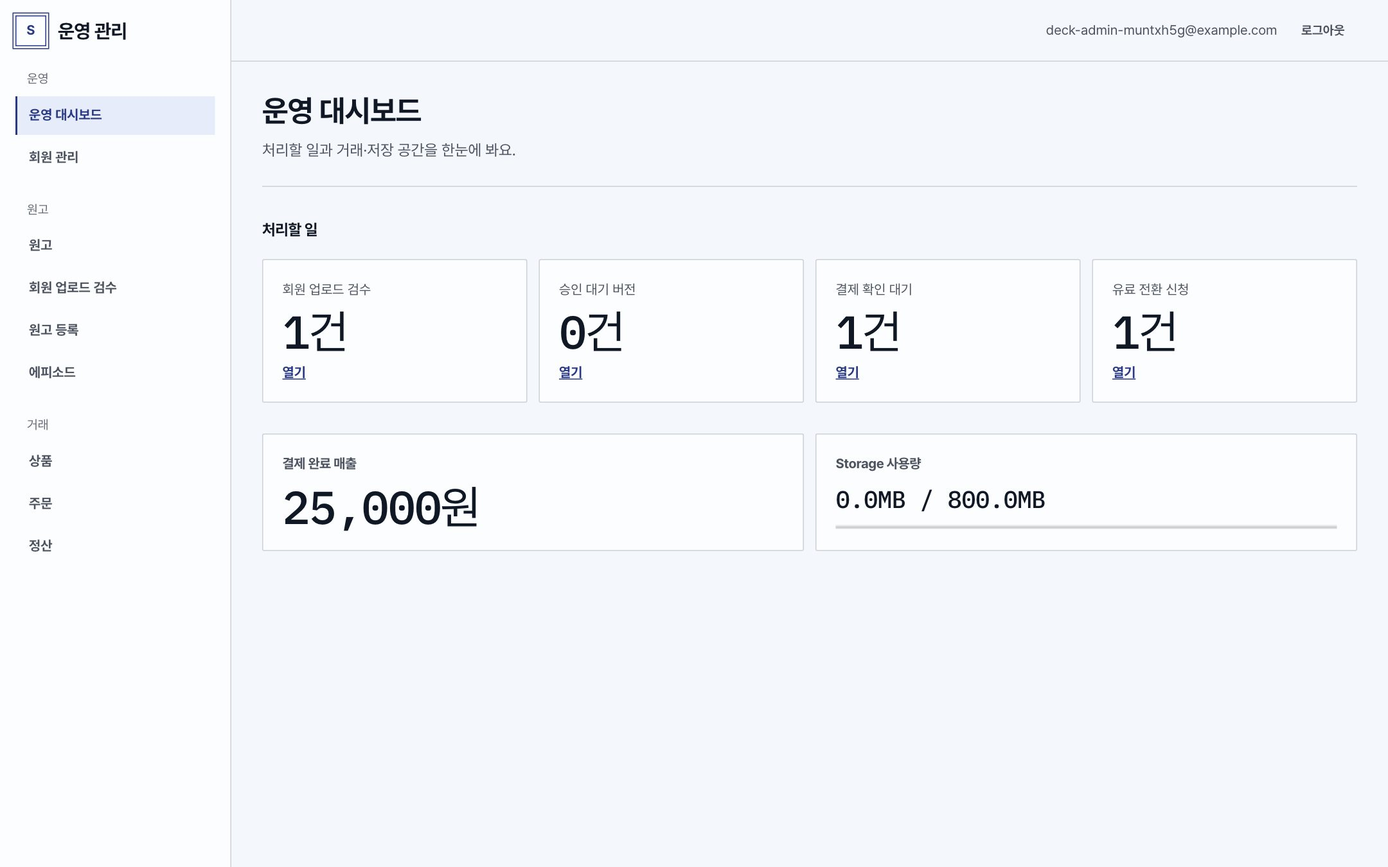
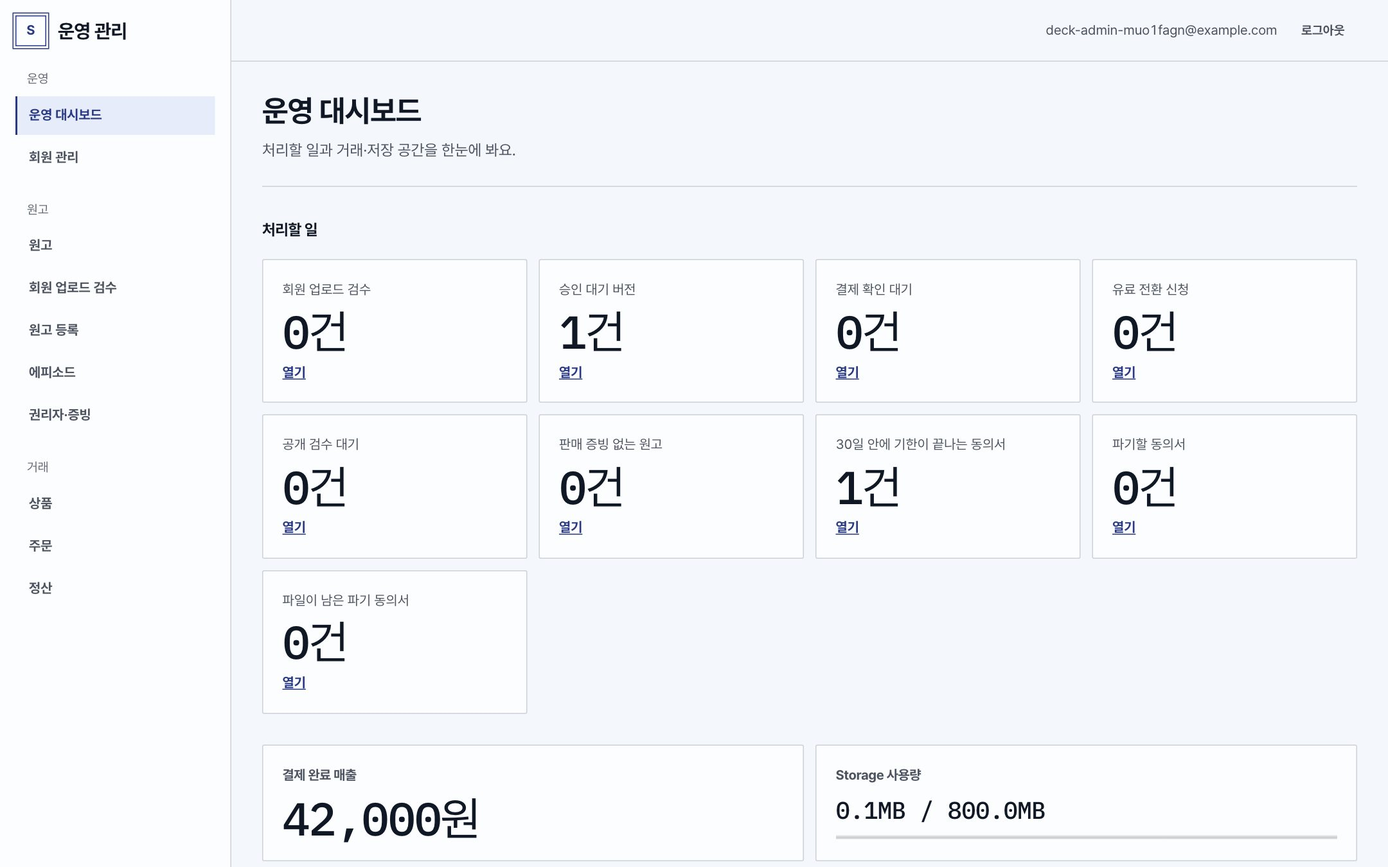
권리 심화(B5) 구현 반영: 정책서·기능 정의·화면 시안 갱신
- 서비스 정책서: 공개 검수 3단계, 가림, 게시 중단(EP-7), 관리자 철회(MS-5), 동의서 파기(RT-6), 권리자 연락처(RT-7), 간이 계약, 판정 순서와 보관 기간 보강
- 기능 정의: F5-1·F5-2·F5-4·F5-5·F5-7 구현으로 변경(구현 21 · 일부 11 · 예정 13)
- 화면: 권리자·증빙(A-18) 구현 캡처 추가, 대시보드·에피소드 편집·원고 상세·내 서재 캡처 교체
- 서비스 구조·화면 인벤토리·일정표의 B5 상태 갱신

diff --git a/planning/policy.html b/planning/policy.html
@@ -100,7 +100,7 @@
             <tr><td>회원 식별 정보(이메일·표시 이름)</td><td>탈퇴 또는 삭제 요구 시까지</td><td>탈퇴 즉시 가림 처리</td></tr>
             <tr><td>동의 기록</td><td>회원 정보와 같은 기간</td><td>탈퇴 후 가린 식별자로 보관</td></tr>
             <tr><td>관리자 열람 기록 · 감사 로그</td><td>1년 이상</td><td>기간 경과분만 정리 작업으로 삭제, 그 전에는 수정·삭제 불가</td></tr>
-            <tr><td>저작권자 이름 · 동의서</td><td>정산 근거가 있으면 거래 기록과 함께 5년</td><td>정산 내역이 없는 본인 저작 권리자 이름은 탈퇴 시 가림 처리</td></tr>
+            <tr><td>저작권자 이름 · 연락처 · 동의서</td><td>정산 근거가 있으면 거래 기록과 함께 5년. 판매 근거가 된 동의서는 마지막 판매 뒤 5년</td><td>정산 내역이 없는 본인 저작 권리자는 탈퇴 시 이름·연락처와 간이 계약의 이름을 가림 처리. 동의서는 파기 시 파일 삭제(RT-6)</td></tr>
             <tr><td>거래 기록(주문·이용 기록·정산)</td><td>5년(전자상거래법)</td><td>삭제하지 않고 보관</td></tr>
           </tbody>
         </table>
@@ -128,6 +128,7 @@
         <li><span class="n">MS-2</span><strong>업로드 한도</strong><span>회원은 접수 대기 원고 3편, 하루 업로드 5회까지. 전체 저장 용량이 기준을 넘으면 새 업로드 중단.</span></li>
         <li><span class="n">MS-3</span><strong>중복 확인</strong><span>관리자 등록 시 파일 해시·파일 이름·본문 해시로 중복 경고. "그래도 등록"을 선택해야 등록.</span></li>
         <li><span class="n">MS-4</span><strong>본문 추출</strong><span>업로드 즉시 본문과 장·절·문단·쪽 구조, 문장 시작 위치 추출. 원본 파일과 추출 본문은 비공개 저장.</span></li>
+        <li><span class="n">MS-5</span><strong>관리자 철회</strong><span>처리 중·검수 중·공개 원고를 관리자가 사유를 남기고 철회. 모든 에피소드의 게시가 중단되고 발급한 간이 계약은 무효. 되돌릴 수 없음.</span></li>
       </ul>
       <h3>원고 상태</h3>
       <div class="table-wrap">
@@ -139,7 +140,7 @@
             <tr><td>검수 중</td><td>사람 검수</td><td>첫 에피소드 버전 승인 → 공개</td></tr>
             <tr><td>공개</td><td>서가 공개</td><td>공개 목록에 오른 경우에만 "서가 공개". 권리 확인 전이면 "승인됨 · 공개 준비 중"</td></tr>
             <tr><td>반려</td><td>반려 사유</td><td>종료. 사유를 회원 마이페이지에 표시</td></tr>
-            <tr><td>취소</td><td>—</td><td>종료. 탈퇴 시 접수 대기 원고도 취소</td></tr>
+            <tr><td>취소</td><td>—</td><td>종료. 회원의 접수 취소, 탈퇴 시 접수 대기 원고 취소, 관리자 철회(MS-5)</td></tr>
           </tbody>
         </table>
       </div>
@@ -154,8 +155,9 @@
         <li><span class="n">EP-2</span><strong>버전</strong><span>수정·범위 조정은 새 버전으로 추가. 승인된 버전은 한 번에 하나이며, 새 버전 승인 시 이전 승인 버전은 대체됨. 반려 시 승인 버전 유지.</span></li>
         <li><span class="n">EP-3</span><strong>승인 요약</strong><span>관리자가 승인한 요약만 공개(U6 기본안). AI가 만든 요약도 관리자 검수 전에는 확정하지 않음.</span></li>
         <li><span class="n">EP-4</span><strong>공개 발췌</strong><span>그 에피소드 원문에 그대로 있는 문장만 허용(저장 시 일치 확인). 발췌 공개 동의가 있을 때만 게시.</span></li>
-        <li><span class="n">EP-5</span><strong>실명 금지</strong><span>요약·발췌·원고 소개에 사람 이름 사용 금지(작성 기준, 관리자 화면 안내). 익명화가 필요한 원고는 가림 처리 전까지 공개 목록 제외.</span></li>
-        <li><span class="n">EP-6</span><strong>제외</strong><span>관리자가 사유를 남기고 에피소드를 제외하면 공개 목록과 판매에서 빠짐.</span></li>
+        <li><span class="n">EP-5</span><strong>실명 금지</strong><span>요약·발췌·원고 소개에 사람 이름 사용 금지(작성 기준, 관리자 화면 안내). 본문의 실명·제3자 정보는 가림(RT-5)으로 처리하고, 민감정보 검수를 통과해야 공개 목록에 오름.</span></li>
+        <li><span class="n">EP-6</span><strong>제외</strong><span>관리자가 사유를 남기고 에피소드를 제외하면 공개 목록과 판매에서 빠짐. 이미 구매한 회원은 구매한 버전을 계속 읽음.</span></li>
+        <li><span class="n">EP-7</span><strong>게시 중단</strong><span>권리 문제로 관리자가 사유를 남기고 게시를 중단하면 공개 목록·판매·유료 열람에서 빠지고, 이미 구매한 회원도 전문을 읽을 수 없음(서재에 "게시가 중단된 에피소드" 표시). 관리자가 중단한 것만 개별로 재개하고, 원고 철회로 중단된 것은 재개하지 않으며, 동의서 파기로 중단된 것은 새 동의서를 확인한 뒤 원고 단위로 한 번에 재개.</span></li>
       </ul>
       <h3>분류와 태그</h3>
       <div class="table-wrap">
@@ -208,8 +210,11 @@
       <ul class="rows">
         <li><span class="n">RT-1</span><strong>동의서 확인</strong><span>관리자가 내용을 확인한 뒤 확인 처리(파일 열람은 기록됨). 확인 전 동의서는 판정에 쓰지 않음.</span></li>
         <li><span class="n">RT-2</span><strong>보관 기한</strong><span>보관 기한(한국 날짜)이 지난 동의서는 증빙에서 제외. 요약 공개 범위가 사라지면 공개 목록에서 내리고(등재 대기), 회차 판매 범위만 사라지면 판매 차단.</span></li>
-        <li><span class="n">RT-3</span><strong>간이 계약</strong><span>"저작권은 작가, 출판권은 레페토" 조건의 계약을 시스템에서 생성·보관(계약 주체 명칭 확인 필요). 전자서명은 쓰지 않음.</span></li>
-        <li><span class="n">RT-4</span><strong>승인 게이트</strong><span>원문 일치 → 민감정보·제3자 → 권리자 공개 승인의 3단계 검수. 3단계를 모두 통과해야 판매 가능(권리자 승인 주체는 U6).</span></li>
+        <li><span class="n">RT-3</span><strong>간이 계약</strong><span>"저작권은 작가, 출판권은 레페토" 조건의 계약을 시스템에서 생성(계약 주체 명칭 확인 필요). 전자서명 없이 동의서(회원 업로드는 업로드 동의)로 증빙. 발급할 때 권리 기록·증빙·승인 에피소드·조항 문구를 그대로 저장해, PDF는 언제 받아도 같은 내용. 원고마다 발급 계약은 하나이고, 바꾸려면 무효로 한 뒤 다시 발급. 원고 철회나 증빙 동의서 파기 시 무효. 계약 번호는 SC-YYMMDD-NNNN.</span></li>
+        <li><span class="n">RT-4</span><strong>승인 게이트</strong><span>원문 일치 → 민감정보·제3자 → 권리자 공개 승인의 3단계 검수(권리자 승인은 관리자가 확인 방법과 함께 기록, U6). 앞 단계가 통과여야 다음 단계를 통과로 정할 수 있고, 불통과와 권리자 승인에는 메모가 필요. 앞 단계를 불통과로 바꾸면 뒤 단계 결정은 되돌림. 결정은 지우지 않고 이력으로 남김. 공개 목록에 오른 에피소드의 새 버전은 3단계를 통과해야 승인하며, 그 전까지 이전 승인 버전이 그대로 공개됨.</span></li>
+        <li><span class="n">RT-5</span><strong>가림</strong><span>본문의 개인정보·제3자 정보·명예훼손 우려 부분을 문단 번호와 글로 지정해 가림(이 등장만·이 문단 전체·원고 전체). 구매자 전문에는 ■■로 표시. 공개 발췌에 가린 글이 있으면 민감정보 검수를 통과할 수 없음. 발췌와 겹치는 가림을 더하거나 범위에 걸친 가림을 지우면 해당 버전의 민감정보·권리자 승인 검수를 다시 받음.</span></li>
+        <li><span class="n">RT-6</span><strong>동의서 파기</strong><span>기한이 지났거나 잘못 올린 동의서는 사유를 남기고 파기(파일 삭제, 파기 사실과 사유는 보관). 판매 근거가 된 동의서는 마지막 판매 뒤 5년 동안 파기할 수 없음. 관리자 등록 원고가 판매 범위 증빙을 모두 잃으면 에피소드 게시를 중단하고 간이 계약을 무효로 함.</span></li>
+        <li><span class="n">RT-7</span><strong>권리자 연락처</strong><span>권리자 이메일·전화번호는 관리자가 "연락처 보기"를 누를 때만 표시되고 열람 기록이 남음. 권리자 확인과 공개 승인, 계약 안내에만 사용.</span></li>
       </ul>
     </div>
   </section>
@@ -219,9 +224,9 @@
     <div class="sec-body">
       <h3>공개 목록에 오르는 조건</h3>
       <ul class="rows">
-        <li><span class="n">LS-1</span><strong>승인</strong><span>승인된 버전이 있고, 에피소드가 제외되지 않았으며, 원고가 반려·취소 상태가 아님.</span></li>
+        <li><span class="n">LS-1</span><strong>승인</strong><span>승인된 버전이 있고, 에피소드가 제외·게시 중단되지 않았으며, 원고가 공개 상태(반려·취소·철회 아님).</span></li>
         <li><span class="n">LS-2</span><strong>외부 공개</strong><span>현재 권리 기록이 있고 외부 공개가 허용됨.</span></li>
-        <li><span class="n">LS-3</span><strong>익명화</strong><span>익명화가 필요한 원고는 가림 처리를 통과해야 함.</span></li>
+        <li><span class="n">LS-3</span><strong>익명화</strong><span>익명화가 필요한 원고는 가림을 마치고 민감정보 검수를 통과해야 함(LS-5에 포함).</span></li>
         <li><span class="n">LS-4</span><strong>요약 공개 동의</strong><span>요약 공개 범위의 증빙이 있음(동의서 또는 업로드 동의).</span></li>
         <li><span class="n">LS-5</span><strong>승인 게이트</strong><span>원문 일치·민감정보·권리자 공개 승인 3단계를 통과함(RT-4).</span></li>
       </ul>
@@ -231,6 +236,7 @@
         <table class="states">
           <thead><tr><th>판매 상태</th><th>공개 화면 표시</th><th>조건</th></tr></thead>
           <tbody>
+            <tr><td>등재 대기(게시 중단)</td><td>목록에 없음</td><td>게시 중단(EP-7). 판매 설정보다 먼저 적용</td></tr>
             <tr><td>판매 안 함</td><td>지금은 구매할 수 없어요</td><td>관리자가 판매 안 함으로 지정</td></tr>
             <tr><td>판매 중지</td><td>지금은 구매할 수 없어요</td><td>관리자가 판매 중지(재개 가능)</td></tr>
             <tr><td>등재 대기</td><td>목록에 없음 또는 구매 불가</td><td>공개 목록 조건 미충족 또는 출판권 미확인</td></tr>
@@ -302,7 +308,7 @@
         <li><span class="n">OP-1</span><strong>관리자 접근</strong><span>관리자 등급 계정만 관리자 화면 접근. 그 밖의 계정은 404 표시. 관리자도 회원과 같은 로그인 화면 사용.</span></li>
         <li><span class="n">OP-2</span><strong>관리자 보호</strong><span>자기 계정의 등급·상태 변경 불가. 마지막 활성 관리자는 강등·비활성·탈퇴 불가.</span></li>
         <li><span class="n">OP-3</span><strong>최근 로그인 확인</strong><span>탈퇴, 관리자 등급 부여, 관리자 계정 재활성화, 비밀번호 저장은 10분 이내 로그인한 세션에서만 가능.</span></li>
-        <li><span class="n">OP-4</span><strong>열람 기록</strong><span>전문, 원고 본문, 원본 파일, 동의서, 회원 정보 열람 시 열람자·시각·대상 기록.</span></li>
+        <li><span class="n">OP-4</span><strong>열람 기록</strong><span>전문, 원고 본문, 원본 파일, 동의서, 회원 정보, 권리자 연락처, 간이 계약 PDF 열람 시 열람자·시각·대상 기록.</span></li>
         <li><span class="n">OP-5</span><strong>파일 제공</strong><span>원본·동의서는 열람 기록을 남긴 뒤 60초 유효 링크로만 제공. 등록 후 바뀐 파일은 열지 않고 알림.</span></li>
         <li><span class="n">OP-6</span><strong>감사 로그</strong><span>등급·상태·승인·권리·가격·주문·지급 변경을 수정·삭제할 수 없는 기록으로 저장. 관리자 화면에서 조회.</span></li>
       </ul>

diff --git a/assets/data.js b/assets/data.js
@@ -61,7 +61,7 @@ SB.screens = [
     features: ['F1-3', 'F2-2'], desktop: 'P12-account-desktop.jpg', mobile: 'P12-account-mobile.jpg', full: 'P12-account-buyer-desktop-full.jpg' },
   { id: 'P-13', name: '내 서재', route: '/library', area: 'public', status: 'built', bundle: 'B3',
     purpose: '결제가 확인된 에피소드의 전문을 읽습니다. 구매한 버전 그대로 읽을 수 있고, 판매가 끝난 에피소드도 서재에 남습니다.',
-    points: ['읽을 수 있음·결제 확인 대기 상태', '전문 읽기 화면(본문 폭 38em)', '열람할 때마다 접근 기록', '약관 변경 시 재동의 안내'],
+    points: ['읽을 수 있음·결제 확인 대기·게시 중단 상태', '전문 읽기 화면(본문 폭 38em), 가린 글은 ■■', '열람할 때마다 접근 기록', '약관 변경 시 재동의 안내'],
     features: ['F6-6', 'F5-7'], desktop: 'P13-library-desktop.jpg', mobile: 'P13-library-mobile.jpg', extra: [{ label: '전문 읽기', desktop: 'P13-reading-desktop.jpg', mobile: 'P13-reading-mobile.jpg' }] },
   { id: 'P-14', name: '내 원고 올리기(스토리 등록)', route: '/upload', area: 'public', status: 'built', bundle: 'B3',
     purpose: '회원이 원고를 올립니다. 업로드 즉시 본문을 추출해 문단과 장·절 구조를 기록합니다.',
@@ -85,7 +85,7 @@ SB.screens = [
     points: ['관리자가 아닌 계정이 관리자 URL에 접근하면 404', '관리자 인증 강화는 정식 공개 전 조건'], features: ['F1-4'], desktop: 'P09-login-desktop.jpg' },
   { id: 'A-02', name: '운영 대시보드', route: '/admin', area: 'admin', status: 'built', bundle: 'B3',
     purpose: '처리할 일과 운영 지표를 한 화면에 모읍니다. 항목마다 "열기"를 누르면 해당 목록으로 이동합니다.',
-    points: ['회원 업로드 검수·승인 대기 버전·결제 확인 대기·유료 전환 신청', '결제 완료 매출', 'Storage 사용량과 한도'],
+    points: ['회원 업로드 검수·승인 대기 버전·결제 확인 대기·유료 전환 신청', '공개 검수 대기·판매 증빙 없는 원고·기한 30일 안 동의서·파기할 동의서', '결제 완료 매출', 'Storage 사용량과 한도'],
     features: ['F1-6', 'F6-8'], desktop: 'A02-dashboard-desktop.jpg', mobile: 'A02-dashboard-mobile.jpg' },
   { id: 'A-03', name: '회원 관리', route: '/admin/members', area: 'admin', status: 'built', bundle: 'B2',
     purpose: '회원을 찾고 등급과 상태, 전환 신청을 확인합니다.',
@@ -120,23 +120,25 @@ SB.screens = [
     points: ['검수 상태·승인 대기 버전·출처 조건', '현재 버전, 문단 범위, 상품 상태, 가격', '대시보드의 "승인 대기 버전"에서 바로 진입'],
     features: ['F2-6'], desktop: 'A12-episodes-desktop.jpg', mobile: 'A12-episodes-mobile.jpg' },
   { id: 'A-13', name: '에피소드 편집', route: '/admin/episodes/{id}', area: 'admin', status: 'built', bundle: 'B3',
-    purpose: '버전을 만들고 승인하거나 반려합니다. 버전의 문단 범위와 본문을 미리 보고 가격과 판매 설정을 바꿉니다.',
-    points: ['버전 이력: 작성자·결정자·메모', '새 버전(범위 조정·수정), 승인·반려, 제외', '가격·판매 설정(저장 즉시 공개 목록 반영)'],
-    features: ['F2-6', 'F2-7', 'F6-3'], strips: 'A13-episode-strips.jpg' },
+    purpose: '버전을 만들고 승인하거나 반려합니다. 공개 검수 3단계를 정하고, 필요하면 게시를 중단합니다. 가격과 판매 설정도 여기서 바꿉니다.',
+    points: ['버전 이력: 작성자·결정자·메모', '공개 검수: 원문 일치 → 민감정보 → 권리자 공개 승인, 결정 이력', '새 버전(범위 조정·수정), 승인·반려, 게시 중단·재개, 제외', '가격·판매 설정(저장 즉시 공개 목록 반영)'],
+    features: ['F2-6', 'F2-7', 'F5-5', 'F6-3'], strips: 'A13-episode-strips.jpg' },
   { id: 'A-14', name: '원문 대조', route: '/admin/manuscripts/{id}', area: 'admin', status: 'partial', bundle: 'B3 · B4',
     purpose: '번호 붙은 문단을 200개씩 넘겨 보며 범위를 정합니다. 분할·병합 편집은 AI 분할과 함께 구현합니다.',
     points: ['구현: 200문단 단위 보기, 장·절 제목, 쪽 번호, 열람 기록', '예정: 원문 근거 대조, 분할·병합(와이어프레임)'],
     features: ['F2-6'], desktop: 'A14-paragraphs-desktop.jpg', extra: [{ label: '와이어프레임: 분할·병합', desktop: 'W-A14-source-desktop.jpg' }] },
   { id: 'A-15', name: '권리·공개 검수', route: '/admin/manuscripts/{id}', area: 'admin', status: 'merged', bundle: 'B3', mergedInto: 'A-07',
-    purpose: '원고 상세에서 권리 판정을 버전별로 기록하고, 동의서를 올려 확인합니다. 조건을 충족하지 못하면 판매가 차단됩니다.',
-    points: ['권리 기록: 판정 항목 6개, 허용 용도, 제한 문구, 연결 동의서', '동의서(PDF·이미지): 범위와 보관 기한, 확인', '판매 상태와 사유: 판매 차단(동의 없음), 조건부 판매 등'],
-    features: ['F5-1', 'F5-2', 'F5-5'], strips: 'A15-manuscript-strips.jpg', mobile: 'A15-manuscript-mobile.jpg' },
+    purpose: '원고 상세에서 권리 판정을 버전별로 기록하고, 동의서를 확인·파기하고, 간이 계약을 발급합니다. 본문의 민감정보는 가림으로 처리합니다.',
+    points: ['권리 기록: 판정 항목 6개, 허용 용도, 제한 문구, 연결 동의서', '동의서: 범위와 보관 기한, 확인, 기한 상태, 파기', '간이 계약: 발급, PDF 받기, 무효화', '민감정보 가림(이 등장·문단·원고 전체), 원고 철회'],
+    features: ['F5-1', 'F5-2', 'F5-4', 'F5-5'], strips: 'A15-manuscript-strips.jpg', mobile: 'A15-manuscript-mobile.jpg' },
   { id: 'A-16', name: '라이선스 단위', route: '/admin/unit', area: 'admin', status: 'wire', bundle: '범위 밖 후보',
     purpose: '에피소드·권리·색인 버전을 묶은 거래 단위를 봅니다.', points: ['버전 결합과 식별자'], features: ['F9-4'], desktop: 'W-A16-unit-desktop.jpg' },
   { id: 'A-17', name: '버전 비교', route: '/admin/version', area: 'admin', status: 'wire', bundle: '범위 밖 후보',
     purpose: '변경 전후와 재승인·재색인 영향을 비교합니다.', points: ['변경 전후 비교', '재승인 필요 여부'], features: ['F2-7', 'F9-4'], desktop: 'W-A17-version-desktop.jpg' },
-  { id: 'A-18', name: '권리자·증빙', route: '/admin/rights-holders', area: 'admin', status: 'wire', bundle: 'B5',
-    purpose: '권리자별 동의서와 간이 계약을 모아 봅니다.', points: ['권리자별 증빙', '간이 계약 목록'], features: ['F5-2', 'F5-4'], desktop: 'W-A18-rights-holders-desktop.jpg' },
+  { id: 'A-18', name: '권리자·증빙', route: '/admin/rights-holders', area: 'admin', status: 'built', bundle: 'B5',
+    purpose: '권리자별로 원고, 동의서, 간이 계약과 챙길 일을 모아 봅니다. 연락처는 누를 때만 보이고 열람 기록이 남습니다.',
+    points: ['이름 검색, 원고·확인 동의서·발급 계약 수', '챙길 일: 판매 증빙 없음, 기한 30일 안, 파기할 동의서', '상세: 연락처 보기·고치기, 원고·동의서·계약 목록'],
+    features: ['F5-2', 'F5-4', 'F5-7'], desktop: 'A18-rights-holders-desktop.jpg', mobile: 'A18-rights-holders-mobile.jpg', extra: [{ label: '권리자 상세', desktop: 'A18-rights-holder-desktop.jpg' }] },
   { id: 'A-19', name: '키워드·메타데이터', route: '/admin/keywords', area: 'admin', status: 'wire', bundle: 'B4',
     purpose: '표준 태그와 동의어, 사용 현황을 관리합니다.', points: ['서사 태그 축과 값', '동의어와 사용 현황'], features: ['F3-1', 'F3-2'], desktop: 'W-A19-keywords-desktop.jpg' },
   { id: 'A-20', name: '벡터 색인', route: '/admin/vector', area: 'admin', status: 'wire', bundle: 'B4',

diff --git a/planning/features.html b/planning/features.html
@@ -51,19 +51,19 @@
 
   <dl class="facts">
     <div class="fact"><dt>기능</dt><dd class="num">45개</dd></div>
-    <div class="fact"><dt>구현</dt><dd class="num">17개 <small>B1–B3</small></dd></div>
-    <div class="fact"><dt>일부 구현</dt><dd class="num">14개</dd></div>
-    <div class="fact"><dt>예정</dt><dd class="num">14개 <small>B4–B6</small></dd></div>
+    <div class="fact"><dt>구현</dt><dd class="num">21개 <small>B1–B3·B5</small></dd></div>
+    <div class="fact"><dt>일부 구현</dt><dd class="num">11개</dd></div>
+    <div class="fact"><dt>예정</dt><dd class="num">13개 <small>B4·B6</small></dd></div>
   </dl>
 
   <section class="sec" aria-labelledby="s0">
     <div class="sec-label"><p class="eyebrow">Overview</p><h2 id="s0">진행 현황</h2></div>
     <div class="sec-body">
-      <div class="meter" role="img" aria-label="45개 중 구현 17, 일부 14, 예정 14">
-        <i style="width:37.8%;background:var(--positive)"></i><i style="width:31.1%;background:var(--info)"></i><i style="width:31.1%;background:var(--rule-strong)"></i>
+      <div class="meter" role="img" aria-label="45개 중 구현 21, 일부 11, 예정 13">
+        <i style="width:46.7%;background:var(--positive)"></i><i style="width:24.4%;background:var(--info)"></i><i style="width:28.9%;background:var(--rule-strong)"></i>
       </div>
-      <div class="meter-legend"><span><span class="stamp is-built">구현</span> 17</span><span><span class="stamp is-partial">일부</span> 14</span><span><span class="stamp is-next">예정</span> 14</span></div>
-      <p class="prose">원고 등록부터 서재·정산까지 전체 흐름 동작. 남은 기능은 AI 처리(B4), 권리 심화(B5), 운영·증빙(B6) 단계에서 추가.</p>
+      <div class="meter-legend"><span><span class="stamp is-built">구현</span> 21</span><span><span class="stamp is-partial">일부</span> 11</span><span><span class="stamp is-next">예정</span> 13</span></div>
+      <p class="prose">원고 등록부터 공개 검수, 서재·정산까지 전체 흐름 동작. 권리 심화(B5) 완료. 남은 기능은 AI 처리(B4), 운영·증빙(B6) 단계에서 추가.</p>
     </div>
   </section>
 
@@ -129,13 +129,13 @@
     <div class="sec-body"><div class="table-wrap"><table class="feature-table">
       <thead><tr><th>번호</th><th>기능</th><th>완료 기준</th><th>화면</th><th>상태</th></tr></thead>
       <tbody>
-        <tr><td class="mono">F5-1</td><td>권리 상태 모델</td><td>출판권 확인·2차 활용·익명화·외부 공개·외부 AI 판정과 권리 버전은 구현. 익명 처리가 필요한 원고의 공개는 B5</td><td>A-15</td><td><span class="stamp is-partial">일부</span></td></tr>
-        <tr><td class="mono">F5-2</td><td>동의서 관리</td><td>PDF·이미지 업로드, 범위와 보관 기한, 확인, 열람 기록은 구현. 파기 예정일 관리와 권리자별 모아 보기는 B5</td><td>A-15 · A-18</td><td><span class="stamp is-partial">일부</span></td></tr>
+        <tr><td class="mono">F5-1</td><td>권리 상태 모델</td><td>출판권 확인·2차 활용·익명화·외부 공개·외부 AI 판정과 권리 버전. 익명화가 필요한 원고는 가림과 민감정보 검수를 거쳐 공개. 게시 중단·원고 철회</td><td>A-07 · A-13 · A-15</td><td><span class="stamp is-built">구현 B3·B5</span></td></tr>
+        <tr><td class="mono">F5-2</td><td>동의서 관리</td><td>PDF·이미지 업로드, 범위와 보관 기한, 확인, 열람 기록. 기한 상태(30일 안·지남), 파기(판매 근거 5년 보관 확인, 파일 삭제), 권리자별 모아 보기와 챙길 일</td><td>A-15 · A-18</td><td><span class="stamp is-built">구현 B3·B5</span></td></tr>
         <tr><td class="mono">F5-3</td><td>약관·책임 고지</td><td>회원 업로드 동의 항목, 동의 시각·버전 저장은 구현. 문구는 초안이며 발주자 동의서 문구로 교체 예정</td><td>P-14 · P-15</td><td><span class="stamp is-partial">일부</span></td></tr>
-        <tr><td class="mono">F5-4</td><td>간이 계약 자동 생성</td><td>"저작권은 작가, 출판권은 레페토" 조건 기록(계약 주체 명칭 확인 필요), PDF 출력</td><td>A-18</td><td><span class="stamp is-next">예정 B5</span></td></tr>
-        <tr><td class="mono">F5-5</td><td>승인 게이트</td><td>판매 차단 조건은 구현. 원문 일치·민감정보·권리자 승인 3단계는 B5</td><td>A-15</td><td><span class="stamp is-partial">일부</span></td></tr>
+        <tr><td class="mono">F5-4</td><td>간이 계약 자동 생성</td><td>"저작권은 작가, 출판권은 레페토" 조건(계약 주체 명칭 확인 필요)을 발급 때 저장하고 PDF 출력, 무효화. 전자서명 없이 동의서·업로드 동의로 증빙</td><td>A-15 · A-18</td><td><span class="stamp is-built">구현 B5</span></td></tr>
+        <tr><td class="mono">F5-5</td><td>승인 게이트</td><td>원문 일치 → 민감정보 → 권리자 공개 승인 3단계(순서·메모·이력·되돌림), 판매 차단 조건, 가림(구매자 전문에 ■■)</td><td>A-13 · A-15</td><td><span class="stamp is-built">구현 B3·B5</span></td></tr>
         <tr><td class="mono">F5-6</td><td>외부 AI 전송 통제</td><td>동의 기록은 구현. 동의 없는 원고의 AI 처리 차단은 B4·B5</td><td>—</td><td><span class="stamp is-partial">일부</span></td></tr>
-        <tr><td class="mono">F5-7</td><td>접근 기록</td><td>전문·원본·동의서·회원 정보 열람자와 시각</td><td>—</td><td><span class="stamp is-built">구현 B2·B3</span></td></tr>
+        <tr><td class="mono">F5-7</td><td>접근 기록</td><td>전문·원본·동의서·회원 정보·권리자 연락처·간이 계약 열람자와 시각</td><td>—</td><td><span class="stamp is-built">구현 B2·B3·B5</span></td></tr>
       </tbody></table></div></div>
   </section>
 

diff --git a/planning/ia.html b/planning/ia.html
@@ -57,7 +57,7 @@
     <div class="fact"><dt>공개 화면</dt><dd class="num">17개 <small>P-01–P-17</small></dd></div>
     <div class="fact"><dt>관리자 화면</dt><dd class="num">25개 <small>A-01–A-25</small></dd></div>
     <div class="fact"><dt>언어</dt><dd>한국어 · 영어 <small>공개 화면</small></dd></div>
-    <div class="fact"><dt>구현한 화면</dt><dd class="num"><span data-count="*:built,partial,merged"></span>개 <small>구현 25 + 포함·일부 4</small></dd></div>
+    <div class="fact"><dt>구현한 화면</dt><dd class="num"><span data-count="*:built,partial,merged"></span>개 <small>구현 26 + 포함·일부 4</small></dd></div>
   </dl>
 
   <section class="sec" aria-labelledby="s1">
@@ -80,7 +80,7 @@
     <div class="sec-body">
       <div class="tree">
         <div><h3><span class="mono">운영</span>운영</h3><ul><li>운영 대시보드 <span class="mono">A-02</span></li><li>회원 관리 <span class="mono">A-03</span></li><li>└ 회원 상세 <span class="mono">A-04</span></li><li class="is-wire">내보내기·감사 로그 <span class="mono">A-25</span></li></ul></div>
-        <div><h3><span class="mono">원고</span>원고</h3><ul><li>원고 목록·상세 <span class="mono">A-07</span></li><li>└ 권리·공개 검수 <span class="mono">A-15</span></li><li>└ 원문 대조 <span class="mono">A-14</span></li><li>회원 업로드 검수 <span class="mono">A-09</span></li><li>원고 등록 <span class="mono">A-08</span></li><li>에피소드 검수 목록 <span class="mono">A-12</span></li><li>└ 에피소드 편집 <span class="mono">A-13</span></li><li class="is-wire">AI 처리 작업 <span class="mono">A-10</span></li><li class="is-wire">키워드·메타데이터 <span class="mono">A-19</span></li><li class="is-wire">벡터 색인 <span class="mono">A-20</span></li><li class="is-wire">권리자·증빙 <span class="mono">A-18</span></li></ul></div>
+        <div><h3><span class="mono">원고</span>원고</h3><ul><li>원고 목록·상세 <span class="mono">A-07</span></li><li>└ 권리·공개 검수 <span class="mono">A-15</span></li><li>└ 원문 대조 <span class="mono">A-14</span></li><li>회원 업로드 검수 <span class="mono">A-09</span></li><li>원고 등록 <span class="mono">A-08</span></li><li>에피소드 검수 목록 <span class="mono">A-12</span></li><li>└ 에피소드 편집 <span class="mono">A-13</span></li><li class="is-wire">AI 처리 작업 <span class="mono">A-10</span></li><li class="is-wire">키워드·메타데이터 <span class="mono">A-19</span></li><li class="is-wire">벡터 색인 <span class="mono">A-20</span></li><li>권리자·증빙 <span class="mono">A-18</span></li></ul></div>
         <div><h3><span class="mono">거래</span>거래</h3><ul><li>상품 관리 <span class="mono">A-21</span></li><li>주문 <span class="mono">A-22</span></li><li>└ 주문 상세 <span class="mono">A-23</span></li><li>정산 <span class="mono">A-24</span></li></ul></div>
       </div>
       <p class="note">관리자도 회원과 같은 로그인 화면(<span class="mono">A-01 → P-09</span>) 사용. 관리자 권한이 없는 계정의 관리자 주소 접근 시 404 표시. 범위 밖 후보인 프로젝트·도서(A-05·A-06), 라이선스 단위(A-16), 버전 비교(A-17)는 메뉴에서 제외.</p>

diff --git a/planning/schedule.html b/planning/schedule.html
@@ -52,7 +52,7 @@
   <div class="timeline">
     <div><span class="mono">SEPTEMBER</span><strong>설계·기반</strong><p>와이어프레임 교체, 디자인 토큰, 백엔드·데이터 설계, 기반(B1), 회원(B2), 기본 흐름(B3)</p></div>
     <div><span class="mono">OCTOBER</span><strong>디자인·납품</strong><p>디자인 시스템 사이트와 무드보드, 계약 납품물 C1–C5 마무리와 제출</p></div>
-    <div><span class="mono">NOVEMBER</span><strong>AI·증빙</strong><p>AI 분할·태그·의미 검색(B4), 권리 심화(B5), 운영·증빙(B6), 최종 마감 11.13. 개발 범위는 별도 협의</p></div>
+    <div><span class="mono">NOVEMBER</span><strong>AI·증빙</strong><p>AI 분할·태그·의미 검색(B4), 운영·증빙(B6), 최종 마감 11.13. 권리 심화(B5)는 9.30 완료. 개발 범위는 별도 협의</p></div>
   </div>
 
   <section class="sec" aria-labelledby="s1">
@@ -70,7 +70,7 @@
             <tr><td class="group">디자인</td><td>디자인 시스템 사이트, 무드보드, 기획·디자인 자료</td><td class="mono">10.22 – 10.27</td><td><span class="stamp is-partial">진행 중</span></td><td>C1 · C4 · C5</td></tr>
             <tr><td class="group">납품</td><td>C1–C5 마무리와 제출</td><td class="mono">10.27 – 10.30</td><td><span class="stamp is-next">예정</span></td><td>계약 납품물</td></tr>
             <tr><td class="group">개발</td><td>AI 처리(B4): 작업 대기열·AI 분할·태그·키워드·의미 검색</td><td class="mono">10.30 – 11.5</td><td><span class="stamp is-next">예정 · 별도 협의</span></td><td>AI 분할·의미 검색</td></tr>
-            <tr><td class="group">개발</td><td>권리 심화(B5): 승인 게이트, 간이 계약</td><td class="mono">11.5 – 11.8</td><td><span class="stamp is-next">예정 · 별도 협의</span></td><td>승인 게이트·간이 계약</td></tr>
+            <tr><td class="group">개발</td><td>권리 심화(B5): 공개 검수 3단계, 가림, 게시 중단·철회, 동의서 파기, 간이 계약, 권리자·증빙</td><td class="mono">11.5 – 11.8</td><td><span class="stamp is-built">완료 9.30</span></td><td>공개 검수·간이 계약 PDF</td></tr>
             <tr><td class="group">개발</td><td>운영·증빙(B6): 감사 로그 화면, 내보내기, KPI, 통합 점검</td><td class="mono">11.8 – 11.13</td><td><span class="stamp is-next">예정 · 별도 협의</span></td><td>증빙 자료</td></tr>
           </tbody>
         </table>

diff --git a/planning/index.html b/planning/index.html
@@ -56,7 +56,7 @@
     <ul class="ix-list">
       <li class="is-featured"><a href="overview.html"><div><span class="call">SB-PLAN-01</span><strong>서비스 기획서</strong><span>추진 배경과 서비스 정의, 목표와 성과 지표, 사용자와 이용 여정, 수익 구조, 로드맵, 리스크</span></div><span class="arrow" aria-hidden="true">→</span></a></li>
       <li><a href="ia.html"><div><span class="call">SB-PLAN-02</span><strong>서비스 구조와 메뉴</strong><span>공개·관리자 메뉴 트리와 화면 42개의 번호·주소·상태</span></div><span class="arrow" aria-hidden="true">→</span></a></li>
-      <li><a href="features.html"><div><span class="call">SB-PLAN-03</span><strong>기능 정의</strong><span>45개 기능의 완료 기준과 구현 상태(구현 17 · 일부 14 · 예정 14)</span></div><span class="arrow" aria-hidden="true">→</span></a></li>
+      <li><a href="features.html"><div><span class="call">SB-PLAN-03</span><strong>기능 정의</strong><span>45개 기능의 완료 기준과 구현 상태(구현 21 · 일부 11 · 예정 13)</span></div><span class="arrow" aria-hidden="true">→</span></a></li>
       <li><a href="schedule.html"><div><span class="call">SB-PLAN-04</span><strong>일정표</strong><span>9월 설계부터 11월 최종 마감까지 계획과 실제 진행, 발주자 확인 요청</span></div><span class="arrow" aria-hidden="true">→</span></a></li>
       <li><a href="policy.html"><div><span class="call">SB-PLAN-05</span><strong>서비스 정책서</strong><span>회원·원고·에피소드·권리·거래·정산·운영 규칙과 상태 정의</span></div><span class="arrow" aria-hidden="true">→</span></a></li>
     </ul>

diff --git a/planning/inventory.html b/planning/inventory.html
@@ -73,7 +73,6 @@
           <tbody>
             <tr><td>B4 AI 처리</td><td>AI 처리 작업(A-10), 작업 상세(A-11), 키워드·메타데이터(A-19), 벡터 색인(A-20), 원문 대조 분할·병합(A-14)</td><td>작업 대기열, AI 분할·요약, 태그·키워드, 의미 검색</td></tr>
             <tr><td>결정 대기</td><td>AI 검색(P-03)</td><td>AI 검색 화면 유지 여부(U7)</td></tr>
-            <tr><td>B5 권리 심화</td><td>권리자·증빙(A-18)</td><td>간이 계약 PDF, 3단계 승인 게이트</td></tr>
             <tr><td>B6 운영·증빙</td><td>내보내기·감사 로그(A-25)</td><td>내보내기, KPI 측정, 감사 로그 조회</td></tr>
             <tr><td>범위 밖 후보</td><td>컬렉션(P-16), 프로젝트·도서(A-05·A-06), 라이선스 단위(A-16), 버전 비교(A-17)</td><td>일정 미정</td></tr>
           </tbody>
